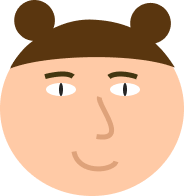
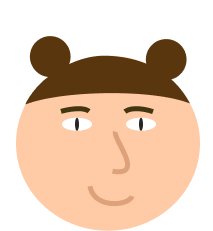
fixed hair positioning

diff --git a/components/custom/AvatarInitialize.tsx b/components/custom/AvatarInitialize.tsx
@@ -26,7 +26,7 @@ const AvatarInitialize = ({ onNext }: AvatarInitializeProps) => {
                     <div className="flex flex-col items-center p-4 mr-28 bg-white dark:bg-gray-700 border-[3px] border-[#2870ED] rounded-[25px] w-[328px] h-[320px] relative">
                         {/* Avatar Image */}
                         <img src="/Avatar.png" alt="avatar" className="mt-10 absolute w-[135px] h-[250px] rounded-lg" />
-                        <img src="/Hair2.png" alt="avatar" className="  absolute translate-y-[-20px] translate-x-[-1px] rounded-lg scale-75" />
+                        <img src="/Hair1.png" alt="avatar" className="bottom-20 mb-5 absolute  translate-x-[-1px] rounded-lg scale-75" />
                         {/* Arrow Controls */}
                         <div className="flex w-full justify-between items-center mt-6 mb-6">
                             <Button className="w-[50px] h-[50px] text-[#2F74EE] dark:text-white dark:bg-gray-800 dark:hover:text-[#2F74EE]" variant="outline" size="icon">
